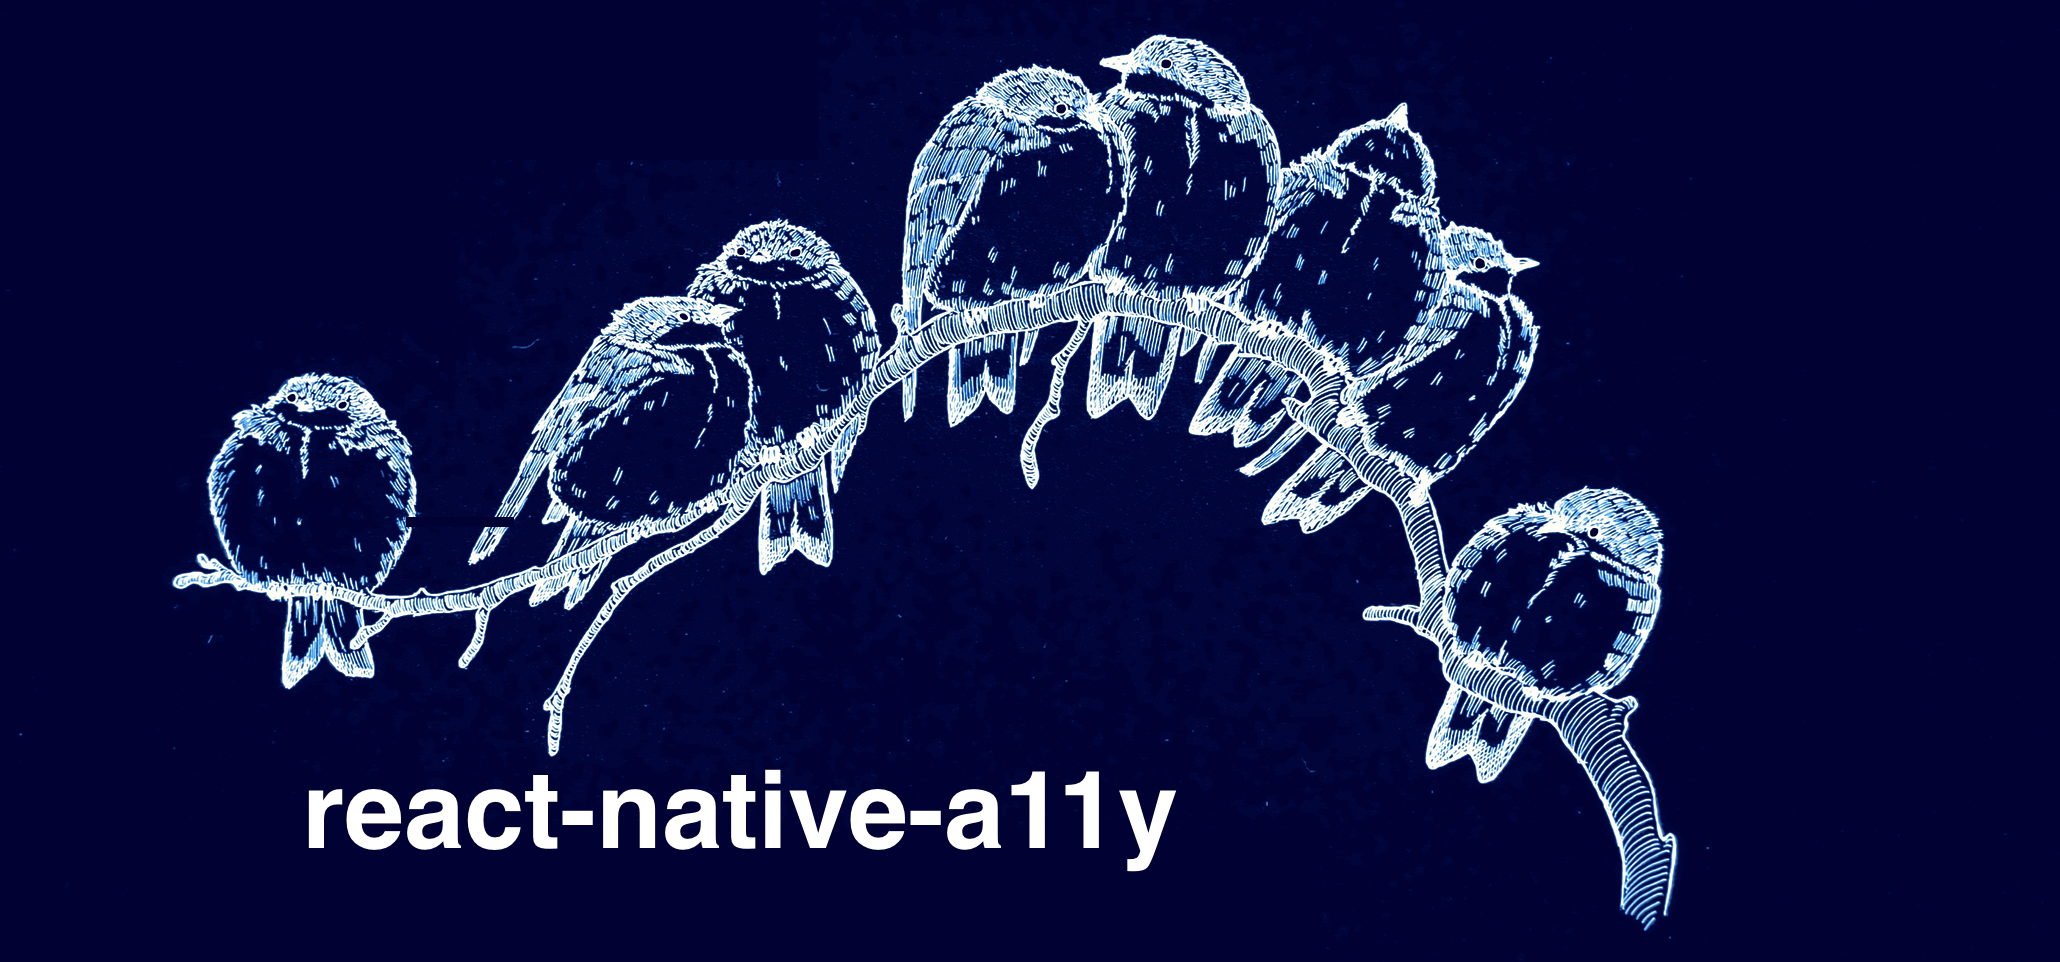
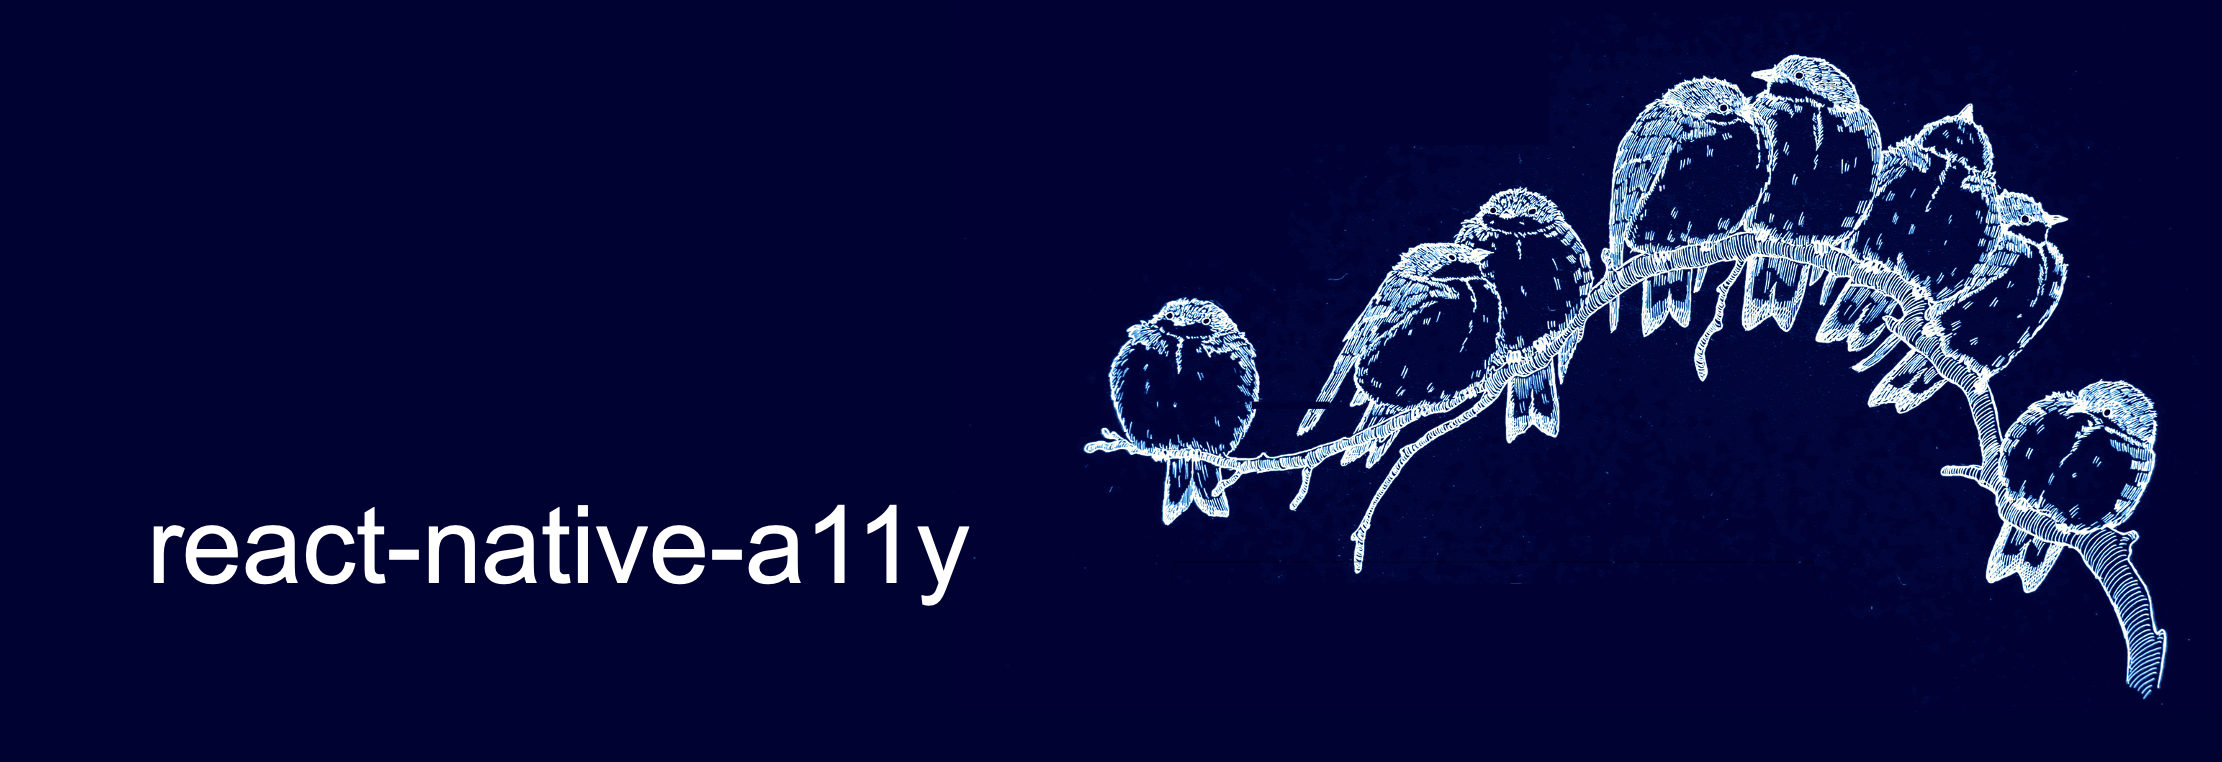
chore: update docs

Changed region(s): [[0.0621, 0.0302, 0.9942, 0.9659], [0.5903, 0.664, 0.6214, 0.7546]]

diff --git a/ROADMAP.md b/ROADMAP.md
@@ -1,0 +1,7 @@
+# Roadmap
+
+| Item | Priority | Status |
+|---|---|---|
+| Add an "Advanced: native focus services" API (like the one in `react-native-external-keyboard`) for handling focus in custom cases and patches. | Medium | To do |
+| Refactor and improve screen-reader focus events for simpler focus handling. | Medium | To do |
+| Prepare for 1.0.0: update packages and dependencies, remove deprecated code, etc. | Medium | To do |